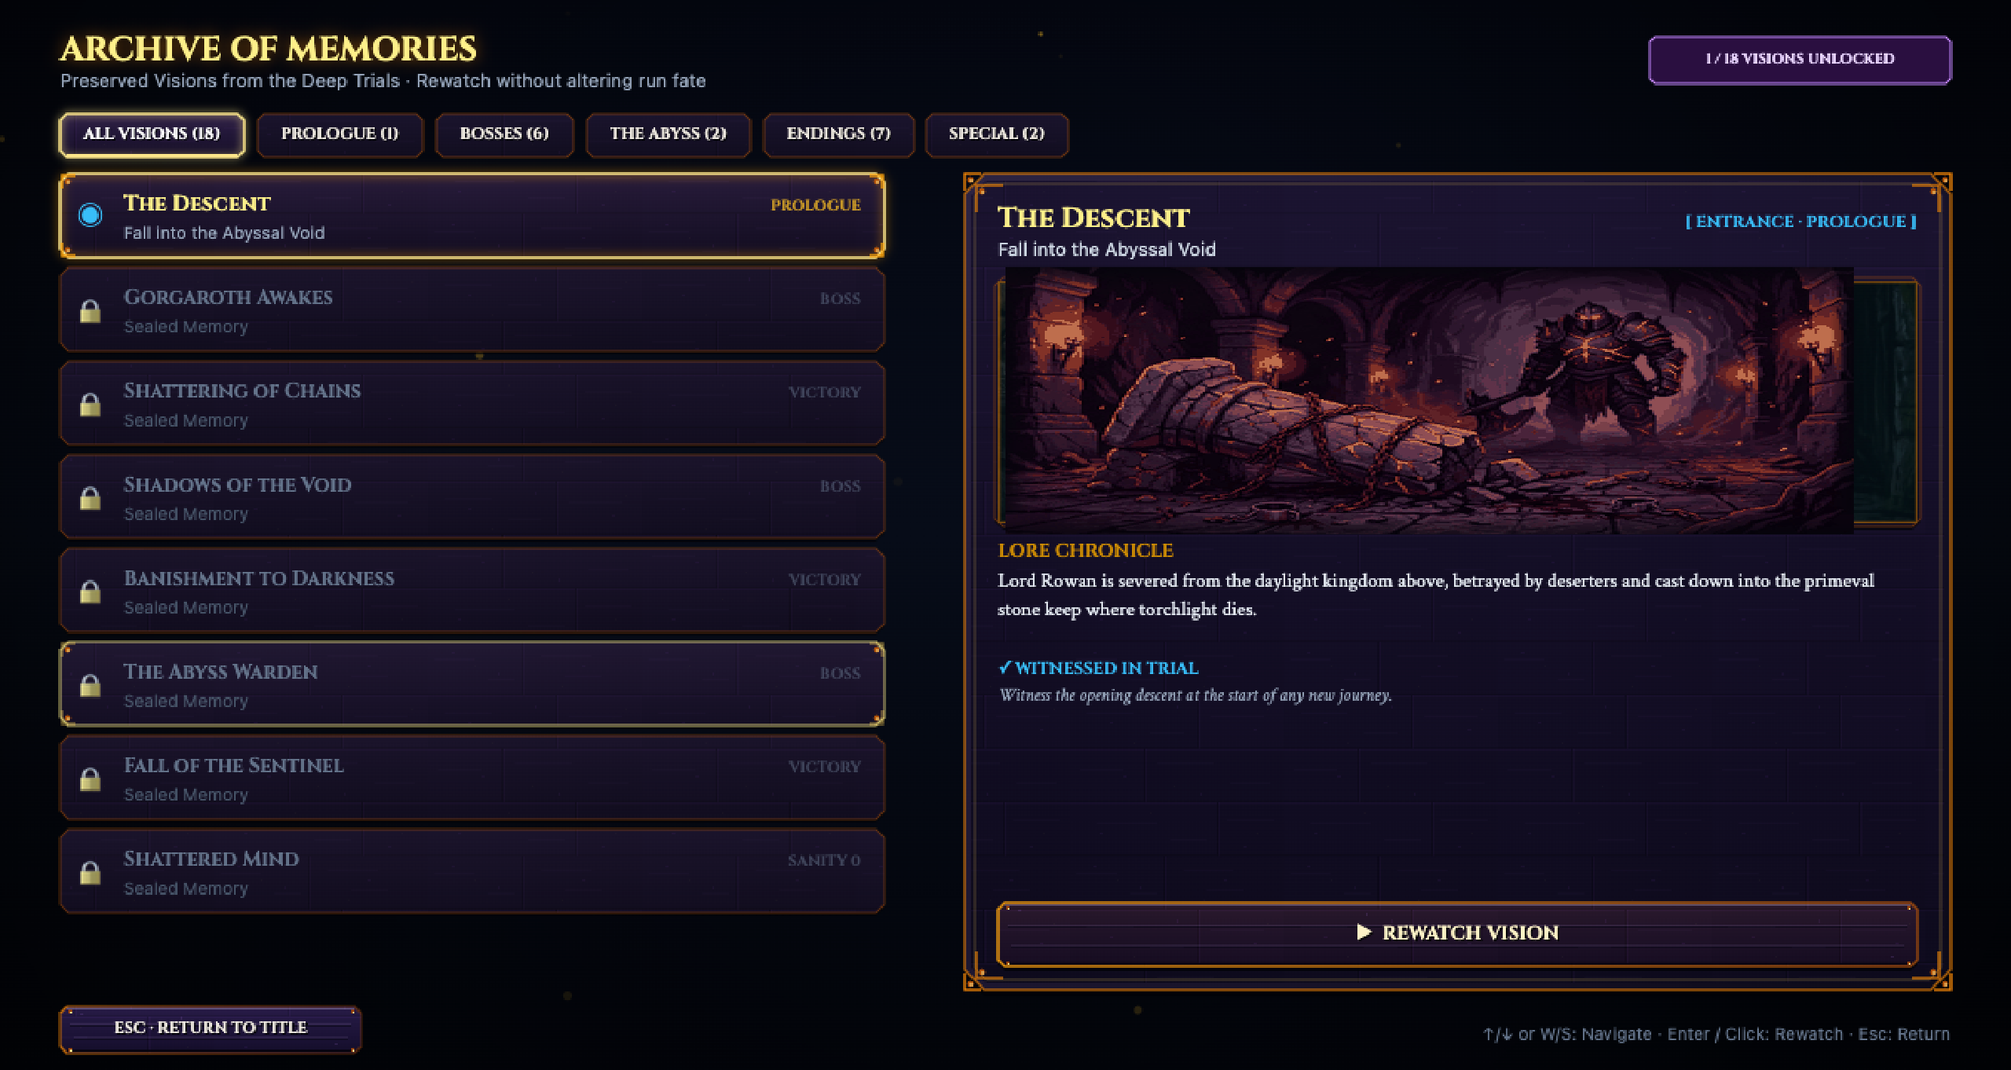
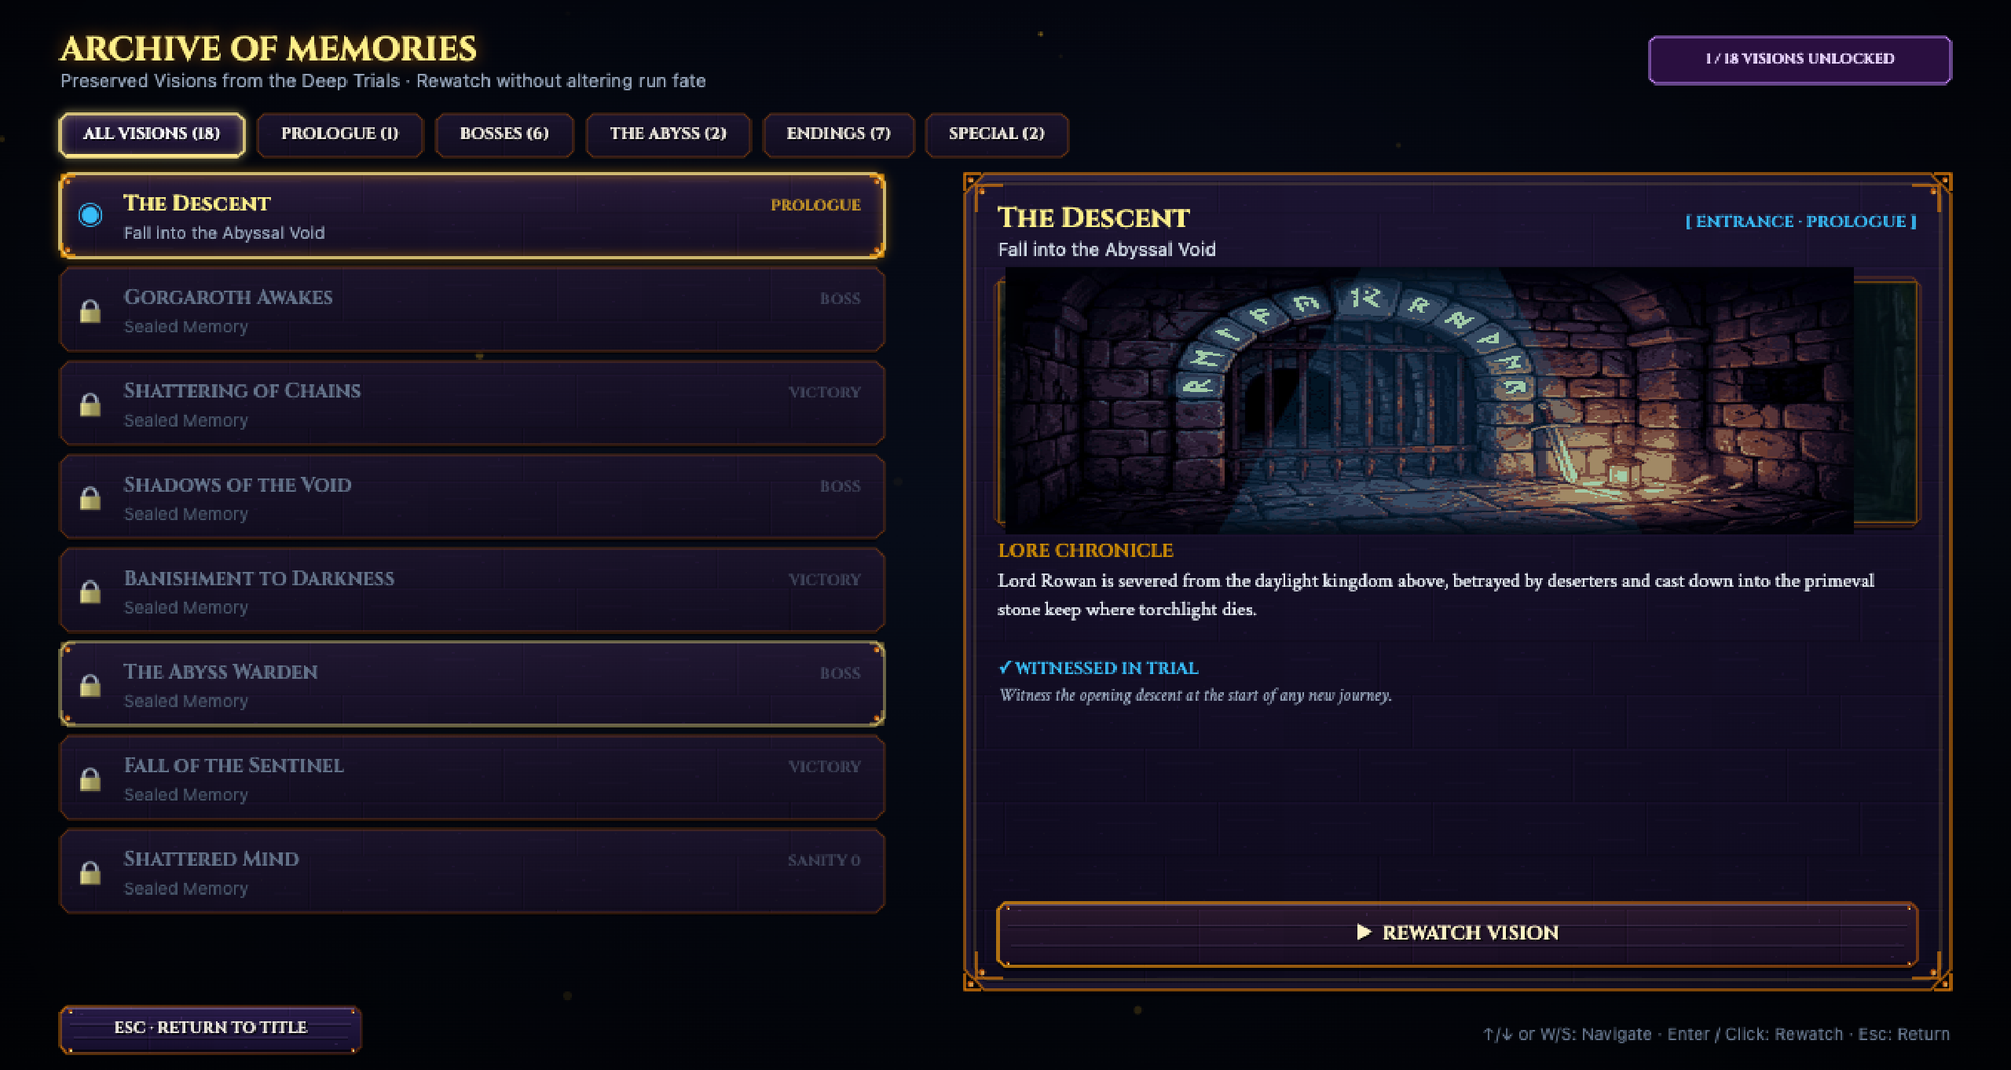
Revamp README with high-impact showcase, purge obsolete MVP screenshots, and update 16-bit archive visuals

Changed region(s): [[0.5, 0.2467, 0.9375, 0.4934]]

diff --git a/README.md b/README.md
@@ -1,198 +1,207 @@
-# Dungeon Break — Abyss Ascension Edition
+# Dungeon Break: Abyss Ascension
 
 <p align="center">
-  <img src="screenshots/showcase/01-main-menu.png" alt="Dungeon Break — Abyss Ascension Edition Main Menu" width="100%" />
+  <img src="screenshots/showcase/01-main-menu.png" alt="Dungeon Break: Abyss Ascension — Title Sanctuary" width="100%" />
 </p>
 
 <p align="center">
-  <strong>A dark-fantasy 2D roguelite action dungeon crawler built with pure Canvas 2D and modular ES6 architecture.</strong>
+  <a href="https://dungeon-break.vercel.app/"><img src="https://img.shields.io/badge/PLAY_NOW-Vercel_Production-7c3aed?style=for-the-badge&logo=vercel&logoColor=white" alt="Play Online (Vercel)" /></a>
+  <a href="https://pdineshsampathram-spec.github.io/dungeon-break-abyss-ascension/"><img src="https://img.shields.io/badge/PLAY_NOW-GitHub_Pages-2563eb?style=for-the-badge&logo=github&logoColor=white" alt="Play Online (GitHub Pages)" /></a>
+  <img src="https://img.shields.io/badge/ENGINE-Pure_HTML5_Canvas_2D-f59e0b?style=for-the-badge" alt="Canvas 2D Engine" />
+  <img src="https://img.shields.io/badge/ARCHITECTURE-Modular_ES6-10b981?style=for-the-badge" alt="Modular ES6" />
+  <img src="https://img.shields.io/badge/PERFORMANCE-60_FPS_Fixed_Tick-dc2626?style=for-the-badge" alt="60 FPS" />
 </p>
 
 <p align="center">
-  <a href="https://dungeon-break.vercel.app/"><strong>▶ PLAY ONLINE (Vercel)</strong></a> •
-  <a href="https://pdineshsampathram-spec.github.io/dungeon-break-abyss-ascension/"><strong>▶ PLAY ONLINE (GitHub Pages)</strong></a> •
-  <a href="#gameplay-features">Features</a> •
-  <a href="#screenshots-gallery">Showcase</a> •
-  <a href="#controls--how-to-play">Controls</a> •
-  <a href="#running-locally">Local Setup</a> •
-  <a href="#technology--architecture">Architecture</a>
+  <strong>An atmospheric dark-fantasy 2D action roguelite dungeon crawler engineered with pure Canvas 2D and zero external runtime dependencies.</strong>
+</p>
+
+<p align="center">
+  <a href="#-about-the-crucible">The Lore</a> •
+  <a href="#-core-gameplay-features">Features</a> •
+  <a href="#-visual-showcase--screenshots">Showcase</a> •
+  <a href="#-controls--combat-guide">Controls</a> •
+  <a href="#-running-locally">Local Run</a> •
+  <a href="#-technical-architecture">Architecture</a>
 </p>
 
 ---
 
-## About the Game
+## ⚡ Quick Play: Descend Immediately
 
-Cast into the subterranean depths after a cruel betrayal at the citadel gate, **Lord Rowan** must survive a descent through ten treacherous dungeon floors. What begins as a desperate struggle to reach the surface transforms into an ancient crucible—a deliberate gauntlet testing strength, resolve, and the limits of human sanity.
+No installs, no plugins, no loading screens. Click to play directly in any modern browser:
 
-Face monstrous jailers, unearth sacred boss bloodlines forged into forgotten weaponry, rescue terrified survivors scattered through the dark, and uncover the truth behind the enigmatic gaze of **The Absolute**.
-
-> *"The descent is not an escape. It is an awakening."*
+| Primary Production Node | High-Availability Mirror |
+|:---:|:---:|
+| [**▶ PLAY ON VERCEL (Fastest)**](https://dungeon-break.vercel.app/) | [**▶ PLAY ON GITHUB PAGES**](https://pdineshsampathram-spec.github.io/dungeon-break-abyss-ascension/) |
+| *Edge CDN · Zero Latency · Instant Boot* | *Global GitHub Pages Static Mirror* |
 
 ---
 
-## Gameplay Features
+## 📜 About the Crucible
 
-### ⚔ Ten-Floor Descent & Colossal Boss Trials
-- **Floor 1–2 (The Upper Dungeons):** Skeleton vanguards, archers, spike traps, and crumbling masonry.
-- **Floor 3 (The Iron Keep — Gorgaroth):** Confront Gorgaroth, the Iron Jailer, wielding a massive war pillar amidst magma channels and shattered chains.
-- **Floor 4–5 (The Sunken Crypts):** Shadow stalkers, void wraiths, pressure plates, and dark sanctum chambers.
-- **Floor 6 (The Void Sanctum — Arch-Lich Malakor):** Face Malakor as he weaves nether rifts and teleports through non-Euclidean space.
-- **Floor 7–9 (The Abyssal Foundations):** Deep elite sentinels, temporal echoes, and fractured reality.
-- **Floor 10 (The Throne of Ruin — The Abyss Warden):** Confront the immortal four-winged Warden and his dreaded blade at the heart of the world.
+> *"The gate slammed shut. The cohorts fled. The torch dies here."*
 
-### 🗡 Weapon Arsenal & Forged Rarities
-- **5 Authentic Weapon Archetypes:**
-  - **Sword:** Balanced slashing sweep with moderate poise damage.
-  - **Axe:** Heavy cleaving arc with ground-shattering burst damage.
-  - **Dagger:** Rapid thrusts with tactical shadow step teleportation.
-  - **Bow:** Long-range precision piercing arrows.
-  - **Spear / Trident:** Thrusting reach with multi-target knockback.
-- **Rarity Tiers:** Common, Rare, Epic, and Legendary with deterministic stat scaling and visual glow accents.
-- **Active Weapon Dock:** Equip and cycle up to 3 weapons in real time with instant numerical hotkeys or mobile tap docks.
+Cast into the subterranean abyss after a brutal betrayal at the citadel portcullis, **Lord Rowan**, Vanguard Knight of the Sunken Citadel, must fight his way down through ten treacherous strata of stone, magma, void, and shadow.
+
+What begins as an instinctual fight for survival quickly unmasks itself as an ancient, empirical crucible—a subterranean gauntlet engineered eons ago by an unknowable cosmic entity known as **The Absolute** to test the limits of human strength, cadence, and sanity.
+
+Survive monstrous jailers, unearth pre-forged blood weaponry caches, maintain your flickering sanity against creeping madness, rescue trapped survivors, and decide the fate of the world beyond the 10th floor.
+
+---
+
+## ⚔ Core Gameplay Features
+
+### 🌋 Ten Subterranean Strata & Three Epic Boss Trials
+- **Floor 1–2 (The Upper Dungeons & Forgotten Crypts):** Skeletons, ghouls, crumbling arches, pressure plates, and spike traps.
+- **Floor 3 (The Iron Keep — Gorgaroth the Iron Jailer):** Face the chained horned behemoth wielding a colossal granite war pillar amidst bubbling lava canals.
+- **Floor 4–5 (The Sunken Crypts & Infernal Catacombs):** Non-Euclidean corridors, shifting traps, demonic wraiths, and suffocating ambient heat.
+- **Floor 6 (The Void Sanctum — Arch-Lich Malakor):** Confront the hovering arch-lich as he weaves dimensional rifts and spatial tears through reality.
+- **Floor 7–9 (The Molten Core & Threshold of Oblivion):** Magma aqueducts, ancient runic stelae, and the darkening threshold of apotheosis.
+- **Floor 10 (Throne of Ruin — The Abyss Warden):** Duel the immortal four-winged Warden brandishing the Dreadblade at the floor of the world.
 
 <p align="center">
-  <img src="screenshots/showcase/02-floor-gameplay.png" alt="Floor Gameplay" width="85%" />
+  <img src="screenshots/showcase/02-floor-gameplay.png" alt="Active Combat in the Sunken Dungeons" width="90%" />
 </p>
 
-### 🧠 Sanity System & The Shattered Mind
-- Rowan's sanity drains under darkness, enemy proximity, and supernatural terror.
-- Maintain your mind through light sources, restorative shrines, and combat triumphs.
-- Depleting sanity to zero fractures perception, erasing dungeon walls and triggering the psychological **Shattered Mind** outcome.
+### 🗡 Five Legendary Weapon Archetypes & Dynamic Hotkey Docking
+Rowan does not craft weapons from slain foes—he discovers caches of primeval weapons pre-forged eons ago from ancient titan bloodlines:
+- **Broadsword (Balanced Vanguard):** Wide sweeping arc with high stagger poise and reliable defensive recovery.
+- **War Axe (Heavy Cleave):** Massive damage radius with ground-shattering impact.
+- **Shadow Dagger (Agility & Flash):** Rapid thrusting strikes paired with evasive phantom shadow steps.
+- **Longbow (Precision Piercing):** High-velocity ranged arrows that pierce through enemy lines.
+- **Vanguard Spear / Trident (Spearhead Reach):** Linear thrusting reach with heavy knockback.
+- **Active 3-Slot Weapon Dock:** Instantly swap equipped weapons on the fly using `1`, `2`, `3`, mouse wheel, or mobile tap docks.
+
+### 🧠 The Sanity System & The Shattered Mind
+- Light is your lifeline. Darkness, proximity to eldritch horrors, and trauma continuously drain Rowan's **Sanity Meter**.
+- Maintain sanity by staying near torches, drinking from blessed light shrines, and executing swift combat victories.
+- **Sanity Zero Collapse:** If sanity drains completely, Rowan's perception of reality fractures. Dungeon walls dissolve into cosmic dust, shadowy duplicates arise, and the giant red eye of The Absolute awakens in the psychological **Shattered Mind** sequence.
+
+<p align="center">
+  <img src="screenshots/showcase/07-memories-and-codex.png" alt="Grand Codex, Illustrated Chronicles & Bestiary" width="90%" />
+</p>
 
 ### 📜 Codex, Bestiary & Illustrated Chronicles
-- **Dungeon Chronicles:** Ten illustrated scrolls detailing the lore, architecture, and history of each subterranean floor.
-- **Living Bestiary:** Interactive anatomical dossiers, attack patterns, and weakness logs for every monster and boss.
-- **Archive of Memories:** Replay unlocked narrative cutscenes, boss confrontations, and distinct ending visions safely with zero progression loss.
+- **Dungeon Chronicles:** Ten illustrated scrolls detailing the canonical lore, architectural origins, and secrets of each subterranean floor.
+- **Living Bestiary:** Interactive anatomical dossiers, attack patterns, and tactical weakness matrices for every monster and boss.
+- **Story Memory Echoes:** Reconstruct forgotten memories of Lord Rowan, his cohort, and the surface kingdom.
+
+### 🎬 Dedicated Archive of Memories
+- **18 Authentic 16-Bit / 32-Bit Dark Fantasy Pixel Art Visions:** Rewatch story cutscenes, boss introductions, boss defeats, and multiple branching endings safely with zero progression loss.
+- **Nearest-Neighbor Pixel Rendering:** Rendered with integer-scaled pixel quantization, Floyd-Steinberg dithering, and custom Canvas 2D atmospheric shaders.
+- **Mini Pixel Thumbnail Reliquaries:** Beautifully framed miniature preview cards on every entry in the archive.
 
 <p align="center">
-  <img src="screenshots/showcase/07-memories-and-codex.png" alt="Codex and Bestiary" width="85%" />
+  <img src="screenshots/showcase/09-cinematic-archive.png" alt="Archive of Memories with Authentic Dark Fantasy Pixel Art" width="90%" />
 </p>
+
+### 📱 Responsive Mobile Ergonomics & Live Game Speed Regulator
+- **Ergonomic Virtual Touch Controls:** Floating directional D-pad, dedicated combat cluster (Attack, Bow, Special Ability), and tap-to-swap weapon dock.
+- **Live Speed Regulator:** Dynamically shift game speed on the fly between `0.50×` (tactical slow-motion), `1.00×` (standard), `1.50×` (accelerated), and `2.00×` (blitzkrieg).
 
 ### 🏆 Achievements Wall & Speedrun Chronometer
-- **50+ Hand-Crafted Achievements:** Combat masteries, survival feats, flawless boss victories, secret discoveries, and the ultimate 8-milestone **The Last Witness**.
-- **Integrated Speedrun Timer:** Precise frame-accurate run chronometer displaying split times, floor milestones, and personal records.
-
-### 📱 Ergonomic Mobile Controls & Live Speed Adjustment
-- **Tactile Touch Controls:** Dedicated floating D-pad, primary attack, special consecrated ability, ranged bow shot, and a 3-slot mobile weapon dock.
-- **Live Speed Regulator:** Seamlessly shift game execution speed in real time between `0.50×`, `1.00×`, `1.50×`, and `2.00×`.
-
-<p align="center">
-  <img src="screenshots/showcase/03-mobile-controls.png" alt="Mobile Controls Layout" width="85%" />
-</p>
+- **50+ Hand-Crafted Achievements:** Combat masteries, no-damage boss runs, survival challenges, and the ultimate 8-milestone **The Last Witness**.
+- **Integrated Speedrun Chronometer:** Millisecond-accurate split timers, personal best trackers, and floor milestone splits.
 
 ---
 
-## Screenshots Gallery
+## 🖼 Visual Showcase & Screenshots
 
-| 01. The Title Sanctuary | 02. Active Descent Gameplay |
+| 01. Title Sanctuary & Abyssal Gate | 02. Active Descent Dungeon Combat |
 |:---:|:---:|
-| ![Main Menu](screenshots/showcase/01-main-menu.png) | ![Floor Gameplay](screenshots/showcase/02-floor-gameplay.png) |
-| *Sculpted stone plaque, portal effects, and relic buttons* | *Real-time combat HUD, dynamic lighting, and dungeon masonry* |
+| <img src="screenshots/showcase/01-main-menu.png" width="100%" /> | <img src="screenshots/showcase/02-floor-gameplay.png" width="100%" /> |
+| *Concentric abyss accretion dial, brazier embers, and relic buttons* | *Real-time combat HUD, dynamic torch lighting, and stone masonry* |
 
-| 03. Mobile Responsive Controls | 04. Gorgaroth (Floor 3 Boss) |
+| 03. Mobile Responsive Controls | 04. Gorgaroth (Floor 3 Boss Trial) |
 |:---:|:---:|
-| ![Mobile Controls](screenshots/showcase/03-mobile-controls.png) | ![Gorgaroth Boss](screenshots/showcase/04-gorgaroth-boss.png) |
-| *Ergonomic D-pad, weapon dock, and combat action cluster* | *The Iron Jailer slams his pillar in the magma chamber* |
+| <img src="screenshots/showcase/03-mobile-controls.png" width="100%" /> | <img src="screenshots/showcase/04-gorgaroth-boss.png" width="100%" /> |
+| *Virtual D-pad, tap weapon dock, and combat action cluster* | *The Iron Jailer slams his colossal war pillar in the magma forge* |
 
-| 05. Arch-Lich Malakor (Floor 6 Boss) | 06. The Abyss Warden (Floor 10 Apex) |
+| 05. Arch-Lich Malakor (Floor 6 Boss Trial) | 06. The Abyss Warden (Floor 10 Apex) |
 |:---:|:---:|
-| ![Malakor Boss](screenshots/showcase/05-malakor-boss.png) | ![Abyss Warden](screenshots/showcase/06-abyss-warden.png) |
-| *Spatial rifts and spectral robes inside the Void Sanctum* | *Four-winged sentinel brandishing the Dreadblade on the Sunken Throne* |
+| <img src="screenshots/showcase/05-malakor-boss.png" width="100%" /> | <img src="screenshots/showcase/06-abyss-warden.png" width="100%" /> |
+| *Nether rifts, detached shard claws, and non-Euclidean space* | *Immortal four-winged sentinel brandishing the Dreadblade* |
 
-| 07. Codex & Illustrated Chronicles | 08. Achievements Archive |
+| 07. Grand Codex & Bestiary | 08. Achievements & Progression Wall |
 |:---:|:---:|
-| ![Codex](screenshots/showcase/07-memories-and-codex.png) | ![Achievements](screenshots/showcase/08-achievements.png) |
-| *Deep lore archives, floor chronicles, and enemy bestiaries* | *Milestone tracking, categorized badges, and progression wall* |
+| <img src="screenshots/showcase/07-memories-and-codex.png" width="100%" /> | <img src="screenshots/showcase/08-achievements.png" width="100%" /> |
+| *Deep subterranean lore archives, chronicles, and monster anatomies* | *50+ categorized badges, completion meters, and milestone feats* |
 
-| 09. Cinematic Archive of Memories | 10. Living Ending Credits |
+| 09. Archive of Memories (16-Bit Pixel Art) | 10. Living Ending Credits Suite |
 |:---:|:---:|
-| ![Cinematic Archive](screenshots/showcase/09-cinematic-archive.png) | ![Ending Credits](screenshots/showcase/10-ending-credits.png) |
-| *Safe presentation rewatch for all major narrative visions* | *Living ending credits suite with branch-specific conclusions* |
+| <img src="screenshots/showcase/09-cinematic-archive.png" width="100%" /> | <img src="screenshots/showcase/10-ending-credits.png" width="100%" /> |
+| *Safe presentation rewatch for all 18 authentic pixel-art visions* | *Multi-layer particle engine, custom credits, and branch conclusions* |
 
 ---
 
-## Controls & How to Play
+## 🎮 Controls & Combat Guide
 
 ### 💻 Desktop Keyboard & Mouse
 
 | Action | Primary Key | Secondary Key |
 |:---|:---:|:---:|
-| **Move Up / Down / Left / Right** | `W` `A` `S` `D` | `↑` `←` `↓` `→` |
-| **Primary Attack** | `Left Mouse Click` | `J` |
+| **Move Up / Left / Down / Right** | `W` `A` `S` `D` | `↑` `←` `↓` `→` |
+| **Primary Melee / Ranged Attack** | `Left Mouse Click` | `J` |
 | **Special Consecrated Ability** | `Q` | `K` |
-| **Dodge / Dash** | `Spacebar` | `Shift` |
-| **Switch Weapon (Slots 1, 2, 3)** | `1`, `2`, `3` | `Mouse Wheel` |
-| **Toggle Minimap / Full Map** | `M` | `Tab` |
-| **Pause Menu / Settings** | `Escape` | `P` |
-| **Adjust Game Speed** | `[` / `]` | `Numpad 1–4` |
+| **Evasive Dodge Roll** | `Spacebar` | `Shift` |
+| **Switch Weapon (Slot 1, 2, 3)** | `1`, `2`, `3` | `Mouse Wheel` |
+| **Toggle Map / Full Minimap** | `M` | `Tab` |
+| **Pause Menu / Settings / Codex** | `Escape` | `P` |
+| **Adjust Game Speed (0.5×–2.0×)** | `[` / `]` | `Numpad 1–4` |
 
 ### 📱 Mobile Touch Ergonomics
-- **Directional D-Pad (Left):** Smooth 8-directional player traversal.
-- **Combat Cluster (Right):** Primary attack button (`⚔`), Bow shot (`🏹`), and Special skill (`✦`).
-- **Weapon Dock (Bottom Center):** Tap any unlocked weapon slot (`1`, `2`, `3`) to swap weapons instantly.
-- **In-Game HUD Buttons (Top Corners):** Top-left map button (`🗺`), top-right pause/speed button (`⏸`).
+- **Directional D-Pad (Bottom-Left):** Smooth 8-way directional navigation.
+- **Combat Cluster (Bottom-Right):** Attack (`⚔`), Longbow (`🏹`), and Consecrated Special (`✦`).
+- **Weapon Dock (Bottom-Center):** Instant tap-to-equip between unlocked weapon slots.
+- **Top Bar Controls:** Minimap (`🗺`), Pause (`⏸`), and Speed (`⚡`).
 
 ---
 
-## Running Locally
+## 🛠 Running Locally
 
-Because Dungeon Break uses modern **ES6 Modules** and procedural audio assets, running it directly via `file://` will be blocked by browser CORS security policies. A lightweight local HTTP server is required.
+Because Dungeon Break uses modern **ES6 Modules** and procedural Web Audio, run it via a lightweight local HTTP server:
 
-### Option 1: Node.js (Recommended)
+### Option 1: Node.js (Quickest)
 ```bash
-# Clone the repository
+# 1. Clone the repository
 git clone https://github.com/pdineshsampathram-spec/dungeon-break-abyss-ascension.git
 cd dungeon-break-abyss-ascension
 
-# Start the built-in development server
+# 2. Launch local dev server
 npm start
 ```
-Then navigate to:  
-`http://localhost:8080`
+Open **`http://localhost:8080`** in your browser.
 
 ### Option 2: Python 3
 ```bash
 python3 -m http.server 8080
 ```
-Then navigate to:  
-`http://localhost:8080`
+Open **`http://localhost:8080`** in your browser.
 
 ### Option 3: VS Code Live Server
 Right-click `index.html` in VS Code and select **Open with Live Server**.
 
 ---
 
-## Technology & Architecture
+## 🏛 Technical Architecture
 
 Dungeon Break is engineered with a strict **no-runtime-framework** philosophy:
 
-- **Rendering Engine:** Hand-crafted HTML5 Canvas 2D engine rendering at a fixed virtual coordinate space (`960 × 540` / `896 × 640`), dynamically upscaled to fit any display without distortion.
-- **Modular ES6 Architecture:** Clean separation of concerns across core loops, combat math, procedural world generation, audio mixing, UI state machines, and particle rendering.
+- **Native HTML5 Canvas 2D Pipeline:** Fixed virtual coordinate viewport (`960 × 540` / `896 × 640`), dynamically letterboxed and integer-scaled to fit any resolution without visual distortion.
 - **Procedural Character & Boss Art:** Characters, animations, particle effects, and bosses are rendered entirely in code via mathematical Canvas 2D pathing (zero heavy 3D assets or bloated sprite sheets).
-- **Audio Engine:** Dual-pipeline Web Audio API procedural sound synthesizer for dynamic hit impacts, sub-bass rumbles, and chimes, paired with an ambient streaming music manager with linear crossfading.
-- **Persistence:** LocalStorage serialization with corrupt-data fallback, cross-run milestone tracking, and deterministic run configurations.
+- **Dual-Pipeline Web Audio Engine:** Procedural sound synthesizer for dynamic hit impacts, sub-bass rumbles, and chimes, paired with an ambient streaming music manager with linear crossfading.
+- **Safe Persistence:** LocalStorage serialization with corrupt-data fallback, cross-run milestone tracking, and deterministic run configurations.
 
 ---
 
-## Credits
+## 📜 Credits & License
 
-**Created by Dinesh Polimera**
-
+**Created by Dinesh Polimera**  
 *Special thanks to all playtesters and adventurers who dared to venture into the Abyss.*
 
----
-
-## Release Status & Notes
-
-- **Version:** v8.0.0 — Abyss Ascension Edition
-- **Target Platform:** Modern Web Browsers (Chrome, Edge, Firefox, Safari on Desktop & Mobile)
-- **Deployment Status:** Static hosting verified for GitHub Pages.
-- **Known Limitations:**
-  - Web Audio requires a user gesture (click or tap) to initialize audio context in accordance with browser autoplay policies.
-  - Very old mobile browsers without ES6 module support are not supported.
-
----
+Distributed under the **MIT License**. See `LICENSE` for details.
 
 <p align="center">
-  <sub>Dungeon Break: Abyss Ascension Edition © 2026. All rights reserved.</sub>
+  <sub>Dungeon Break: Abyss Ascension © 2026. Built with pure code, mathematics, and pixel art.</sub>
 </p>
